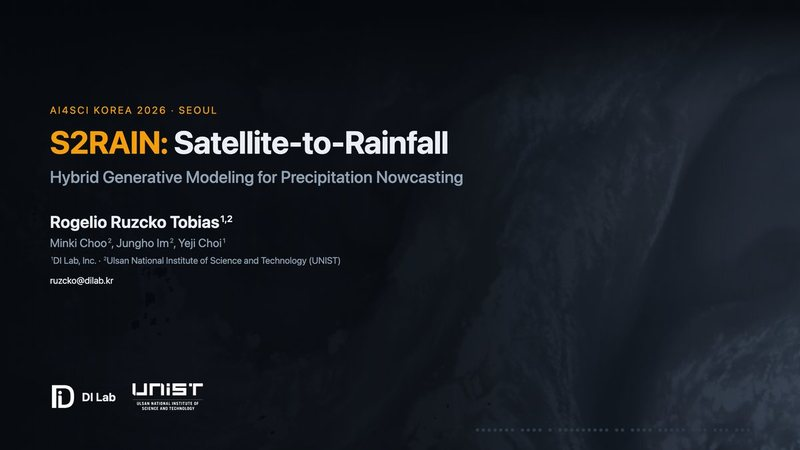
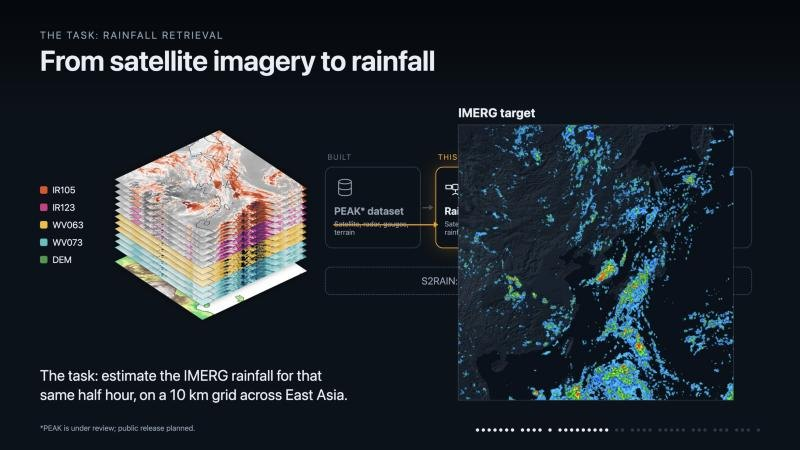
Use the end of slide 5 as the S2RAIN thumbnail
The title slide showed who gave the talk; the end of slide 5 shows what the
work does — the stack of satellite and terrain input channels on the left,
the IMERG rainfall target over East Asia on the right.

Captured from the deck itself at step 20 of 42, the last step belonging to
slide 5, confirmed by the next step moving to slide 6. The navigation chrome
was hidden and the frame left to settle until no animations were running, so
this is the slide's finished state rather than a mid-build frame.

Same 800x450 as before, so the declared dimensions still match and the
layout is unchanged. Alt text now describes the figure rather than a title
slide.

Verified at 390, 768 and 1280: both project thumbnails 100x57 on mobile and
160x91 above it, no overflow, no broken images.

diff --git a/index.html b/index.html
@@ -979,7 +979,7 @@
 </div>
         </article>
         <article class="project-preview project-live">
-          <a class="project-image-link" href="https://ruzcko.com/talks/s2rain-ai4sci-2026/" aria-label="Open the S2RAIN talk"><img class="project-image" src="s2rain.jpg" width="800" height="450" loading="lazy" decoding="async" alt="S2RAIN title slide: Satellite-to-Rainfall, hybrid generative modeling for precipitation nowcasting."></a>
+          <a class="project-image-link" href="https://ruzcko.com/talks/s2rain-ai4sci-2026/" aria-label="Open the S2RAIN talk"><img class="project-image" src="s2rain.jpg" width="800" height="450" loading="lazy" decoding="async" alt="Slide from the S2RAIN talk: a stack of satellite and terrain input channels beside the IMERG rainfall target over East Asia."></a>
           <div><h3><a href="https://ruzcko.com/talks/s2rain-ai4sci-2026/">S2RAIN</a></h3>
           <p>Hybrid generative modeling for precipitation nowcasting, estimating rainfall from geostationary satellite imagery.</p>
           <div class="project-tags">AI · Weather &amp; Climate · Generative Models</div>
